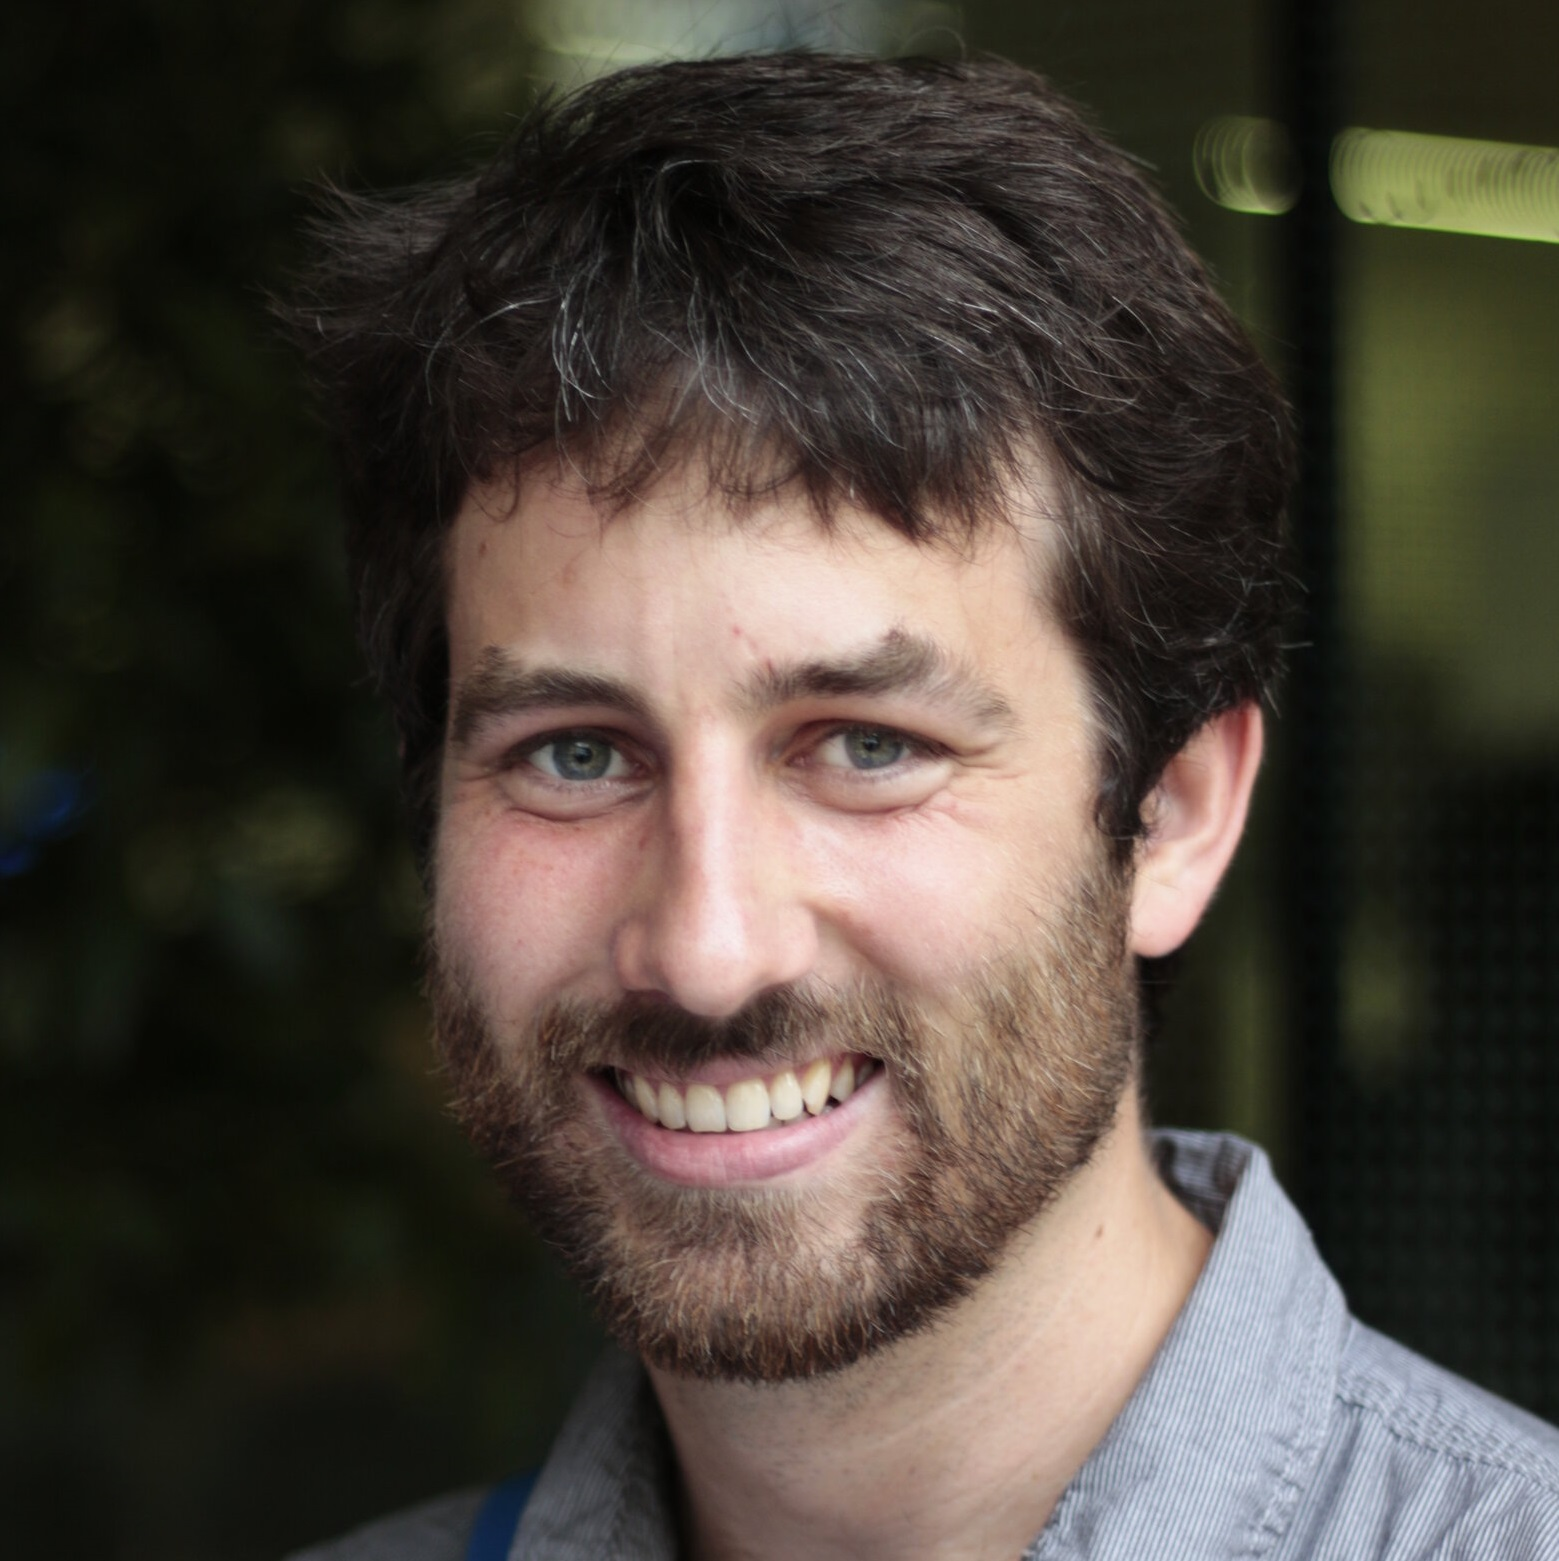
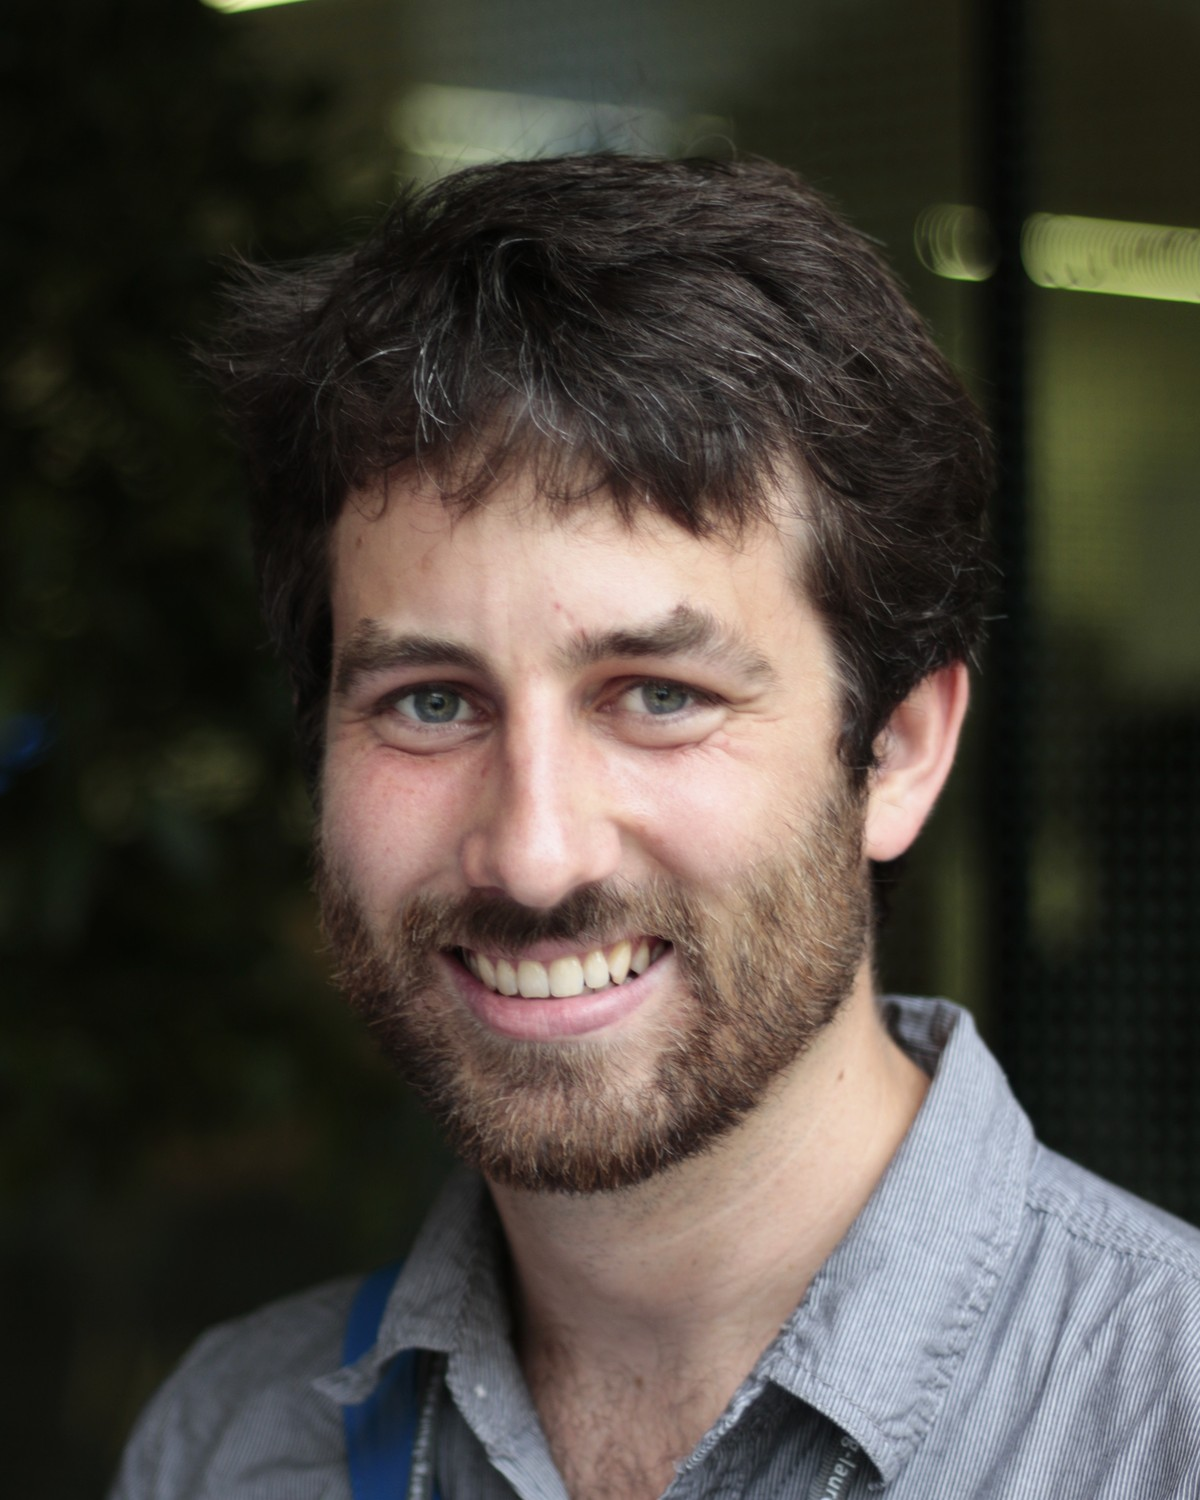
Drop the RSS feed, add a Contact section to About, sharpen the portrait
- No RSS: the home and projects feeds, the footer link and the head
  link are gone.
- About ends with a Contact section: Email, GitHub and LinkedIn rows,
  each showing the address itself (and a CV row once static/cv.pdf
  exists). The links that sat under the bio moved there.
- Portrait: re-cut at 4:5 from Mark's full-resolution original
  (1200x1500, metadata stripped), served up to 720px wide, and Hugo now
  downscales with Lanczos instead of its softer box filter.

diff --git a/layouts/_default/about.html b/layouts/_default/about.html
@@ -8,24 +8,30 @@
     <section class="about__text" aria-labelledby="background-heading">
       <h2 id="background-heading" class="label">Background</h2>
       <div class="bio">{{ .Content }}</div>
-      <ul class="contact-links">
-        <li><a href="{{ site.Params.github }}" rel="me noopener">GitHub</a></li>
-        <li><a href="{{ site.Params.linkedin }}" rel="me noopener">LinkedIn</a></li>
-        <li><a href="mailto:{{ site.Params.email }}">Email</a></li>
-        {{- /* TODO(mark): add static/cv.pdf; this link appears as soon as it exists. */}}
-        {{- if fileExists "static/cv.pdf" }}
-        <li><a href="{{ "cv.pdf" | relURL }}" download>CV (PDF)</a></li>
-        {{- end }}
-      </ul>
     </section>
     <div class="about__portrait">
-      {{ partial "picture.html" (dict "src" "images/portrait.jpg" "widths" (slice 240 480) "sizes" "240px" "alt" "Portrait of Mark Bugden." "eager" true "class" "about__photo") }}
+      {{ partial "picture.html" (dict "src" "images/portrait.jpg" "widths" (slice 240 480 720) "sizes" "240px" "alt" "Portrait of Mark Bugden." "eager" true "class" "about__photo") }}
     </div>
   </div>
 
   <section class="section" aria-labelledby="timeline-heading">
     <h2 id="timeline-heading" class="label">Timeline</h2>
     {{ partial "timeline.html" . }}
+  </section>
+
+  {{- /* Each row shows the address itself: the email, and each profile's URL without its scheme. */}}
+  <section class="section" aria-labelledby="contact-heading">
+    <h2 id="contact-heading" class="label">Contact</h2>
+    <ul class="rows contact">
+      <li class="row"><span class="contact__name">Email</span><a href="mailto:{{ site.Params.email }}">{{ site.Params.email }}</a></li>
+      {{- range slice (dict "name" "GitHub" "url" site.Params.github) (dict "name" "LinkedIn" "url" site.Params.linkedin) }}
+      <li class="row"><span class="contact__name">{{ .name }}</span><a href="{{ .url }}" rel="me noopener">{{ .url | strings.TrimPrefix "https://" | strings.TrimPrefix "www." | strings.TrimSuffix "/" }}</a></li>
+      {{- end }}
+      {{- /* TODO(mark): add static/cv.pdf; this row appears as soon as it exists. */}}
+      {{- if fileExists "static/cv.pdf" }}
+      <li class="row"><span class="contact__name">CV</span><a href="{{ "cv.pdf" | relURL }}" download>cv.pdf</a></li>
+      {{- end }}
+    </ul>
   </section>
 </div>
 {{- end }}

diff --git a/assets/css/site.css b/assets/css/site.css
@@ -131,7 +131,7 @@ a:hover { color: var(--fg); }
 }
 
 /* Standalone links are at least 44px tall, so they are easy to hit. */
-.site-footer a, .contact-links a, .pub__links a, .more-link, .eyebrow a, .project__meta a,
+.site-footer a, .contact a, .pub__links a, .more-link, .eyebrow a, .project__meta a,
 .project__source a, .in-progress__title, .link-list a {
   display: inline-flex;
   align-items: center;
@@ -448,14 +448,11 @@ main:has(:is(.phase__cell--projects, .phase__pill--projects, .section-link--proj
 .bio { font-size: 18px; line-height: 1.6; }
 .bio > * + * { margin-top: 16px; }
 
-.contact-links {
-  display: flex;
-  flex-wrap: wrap;
-  gap: 0 24px;
-  margin-top: 16px;
-  padding: 0;
-  list-style: none;
-}
+/* Contact: a name and the address itself on each row. The 44px link sets the row's height, so the
+   rows are trimmed to 4px of padding. The name column narrows on phones, so each row stays one line. */
+.contact .row { align-items: center; column-gap: clamp(16px, 4vw, 32px); padding-block: 4px; }
+.contact__name { flex: 0 0 min(130px, 22%); color: var(--muted); }
+.contact a { overflow-wrap: anywhere; }
 
 /* Timeline. A vertical line runs from the first role's dot to the last. Roles sit to its right, each
    with a dot; the year of each move sits to its left, on a short tick that meets the line. */

diff --git a/layouts/partials/head.html b/layouts/partials/head.html
@@ -25,9 +25,6 @@
 <link rel="preload" href="{{ "fonts/space-grotesk-latin-wght-normal.woff2" | relURL }}" as="font" type="font/woff2" crossorigin>
 {{- $css := resources.Get "css/site.css" | minify | fingerprint }}
 <link rel="stylesheet" href="{{ $css.RelPermalink }}" integrity="{{ $css.Data.Integrity }}">
-{{- with site.GetPage "/projects" }}{{ with .OutputFormats.Get "rss" }}
-<link rel="alternate" type="application/rss+xml" href="{{ .RelPermalink }}" title="Projects · {{ site.Title }}">
-{{- end }}{{ end }}
 <meta property="og:type" content="{{ if .IsPage }}article{{ else }}website{{ end }}">
 <meta property="og:site_name" content="{{ site.Title }}">
 <meta property="og:title" content="{{ if .IsHome }}{{ site.Title }}{{ else }}{{ .Title }}{{ end }}">

diff --git a/layouts/partials/footer.html b/layouts/partials/footer.html
@@ -4,9 +4,6 @@
       <li><a href="mailto:{{ site.Params.email }}">{{ site.Params.email }}</a></li>
       <li><a href="{{ site.Params.github }}" rel="me noopener">GitHub</a></li>
       <li><a href="{{ site.Params.linkedin }}" rel="me noopener">LinkedIn</a></li>
-      {{- with site.GetPage "/projects" }}{{ with .OutputFormats.Get "rss" }}
-      <li><a href="{{ .RelPermalink }}">Projects feed (RSS)</a></li>
-      {{- end }}{{ end }}
     </ul>
     {{- /* Where Mark works now: the place of the newest role in data/timeline.yaml. */}}
     {{- with index hugo.Data.timeline 0 }}
